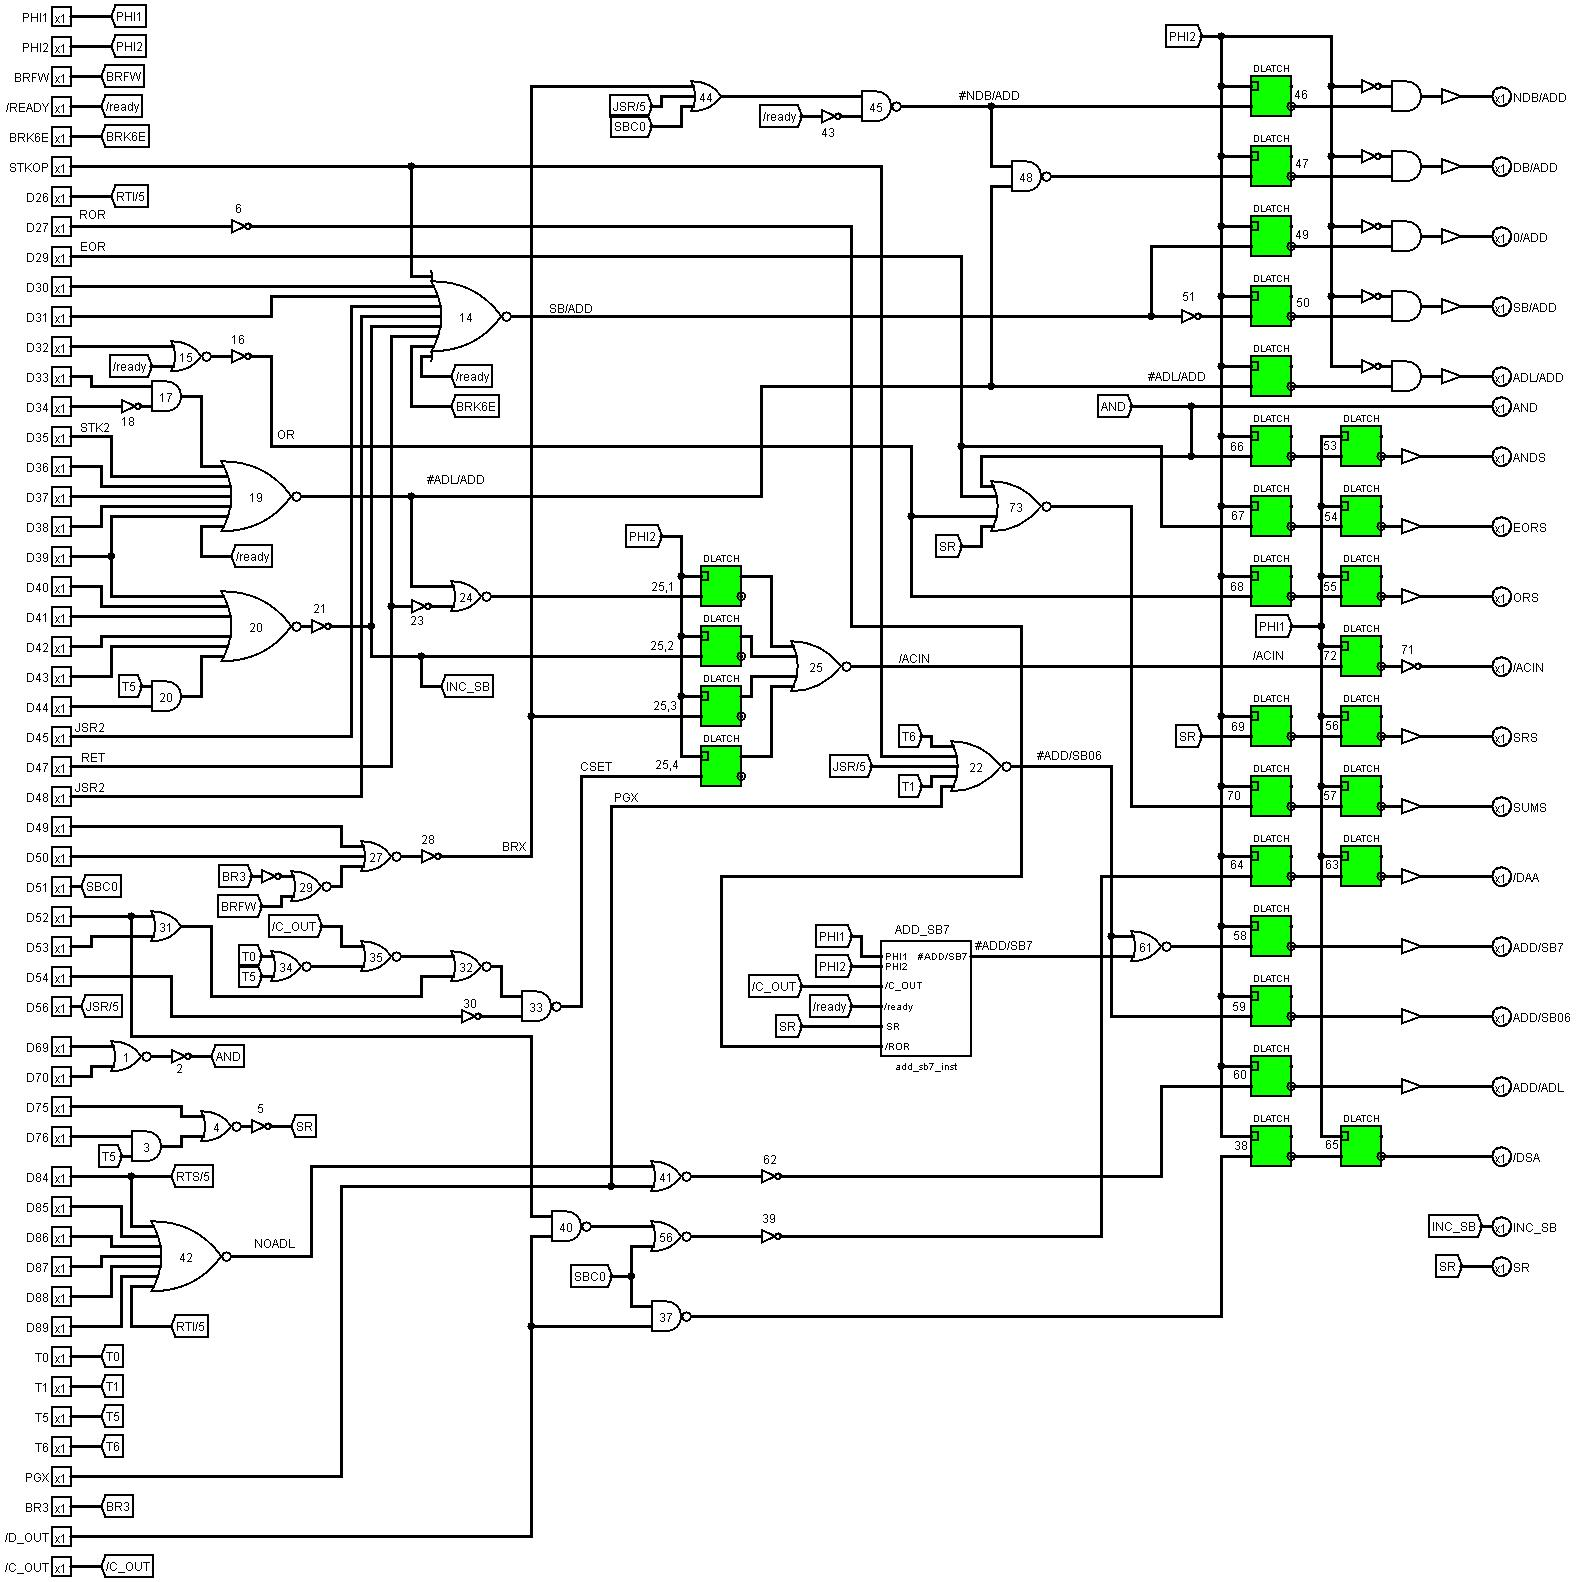
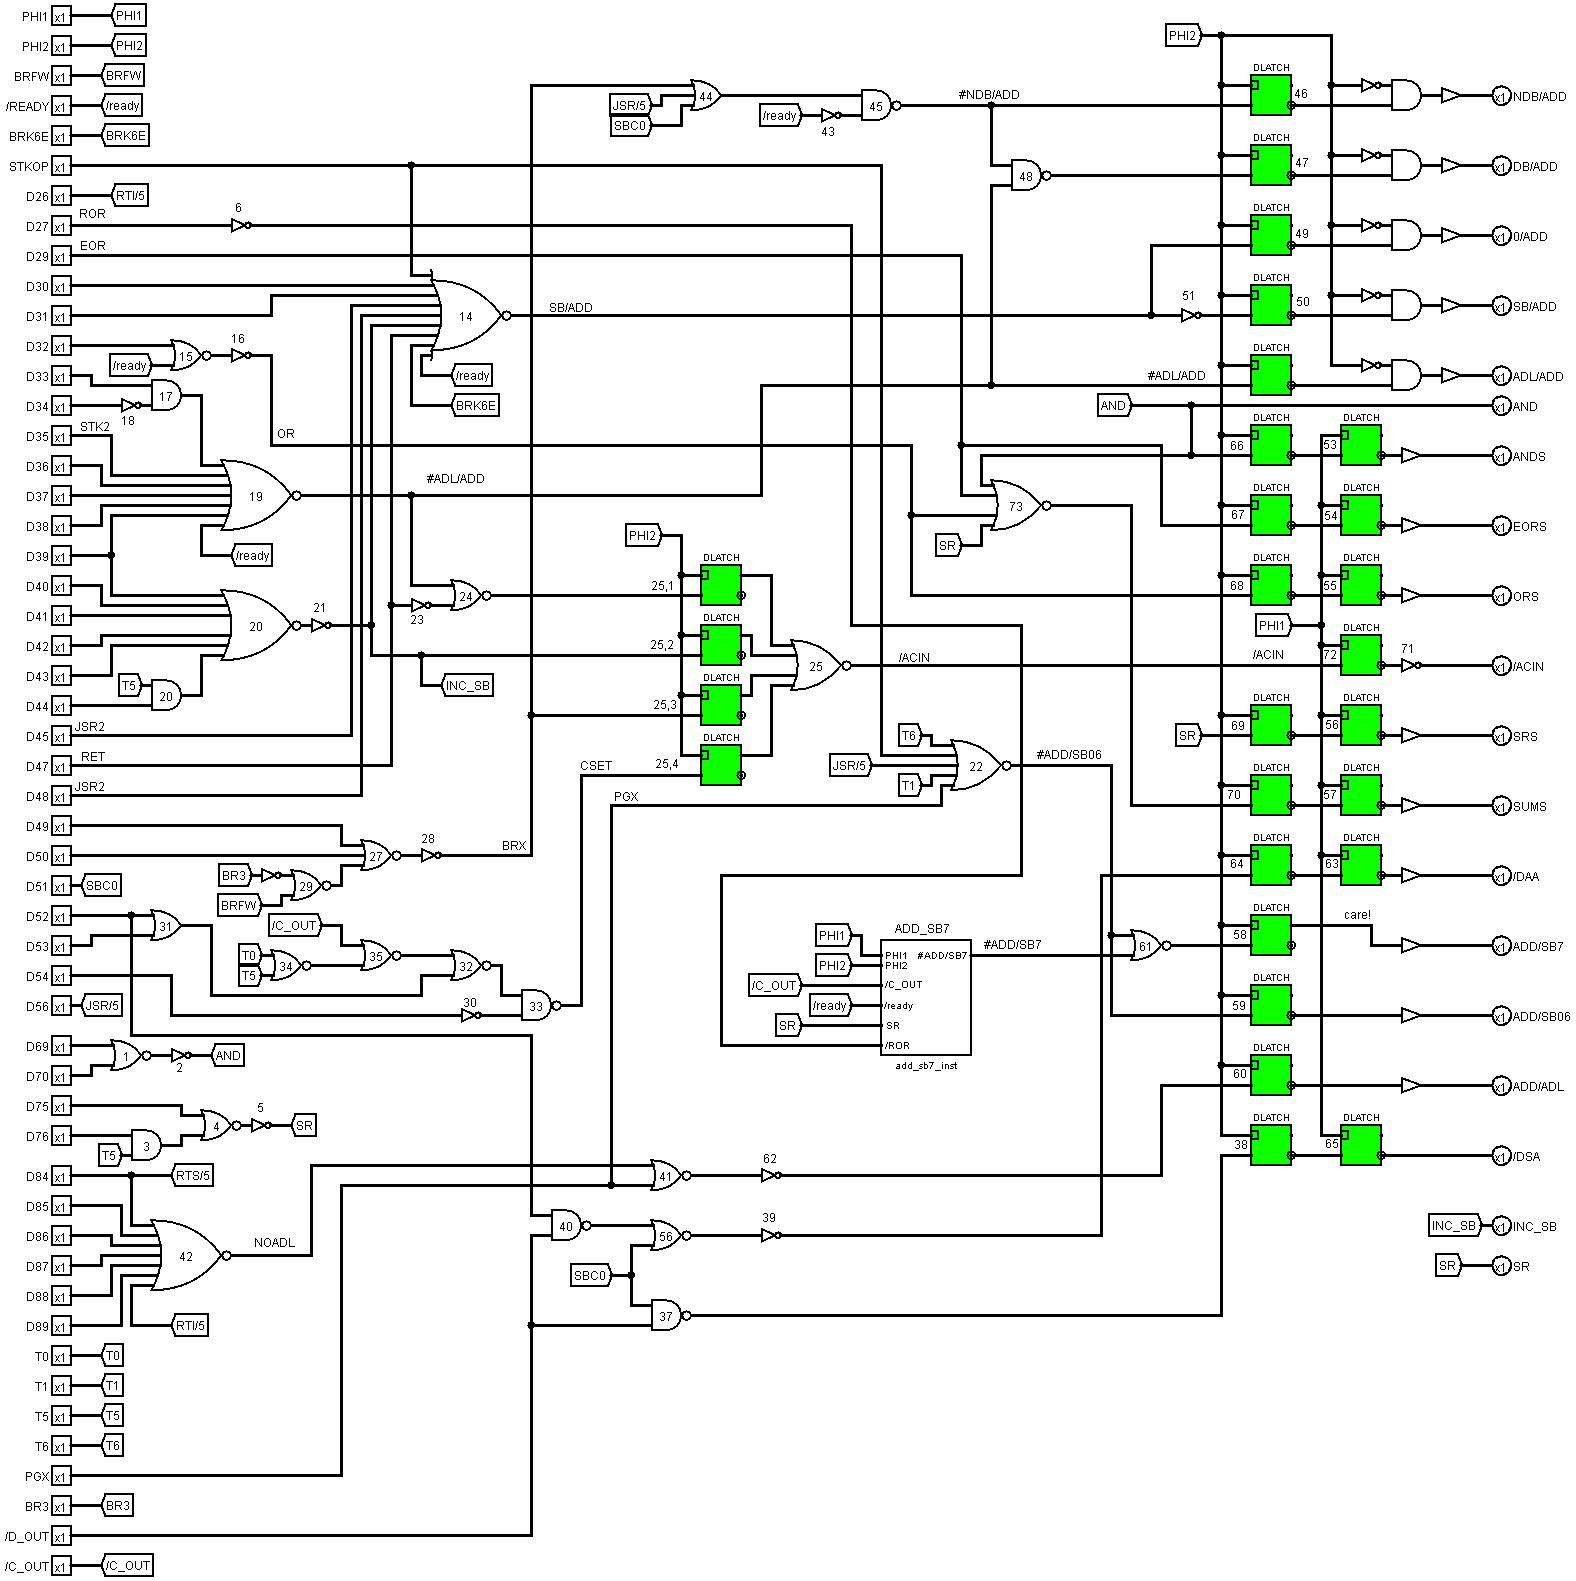
Fixed ADD/SB7 output latch

diff --git a/BreakingNESWiki/6502/context_control.md b/BreakingNESWiki/6502/context_control.md
@@ -75,6 +75,10 @@
 |DL/ADH|✓|✓|DL => ADH|
 |DL/DB|✓|✓|DL <=> DB|
 
+## ADD/SB7
+
+Будьте внимательны, все выходные значения являются инверсными значениями защелок, за исключением `ADD/SB7`.
+
 ## Подтяжка PHI2
 
 В левой части находится небольшая схема для подтяжки PHI2 (который используется большим количеством транзисторов-отсекателей, поэтому должен быть достаточно мощным):

diff --git a/BreakingNESWiki_DeepL/6502/context_control.md b/BreakingNESWiki_DeepL/6502/context_control.md
@@ -75,6 +75,10 @@ All commands are discussed in more detail in their respective sections. The summ
 |DL/ADH|✓|✓|DL => ADH|
 |DL/DB|✓|✓|DL <=> DB|
 
+## ADD/SB7
+
+Be careful, all output values are inverse latch values, except for `ADD/SB7`.
+
 ## PHI2 Pullup
 
 On the left side is a small circuit to pull up PHI2 (which is used by a lot of cutoff transistors, so it must be quite powerful):
